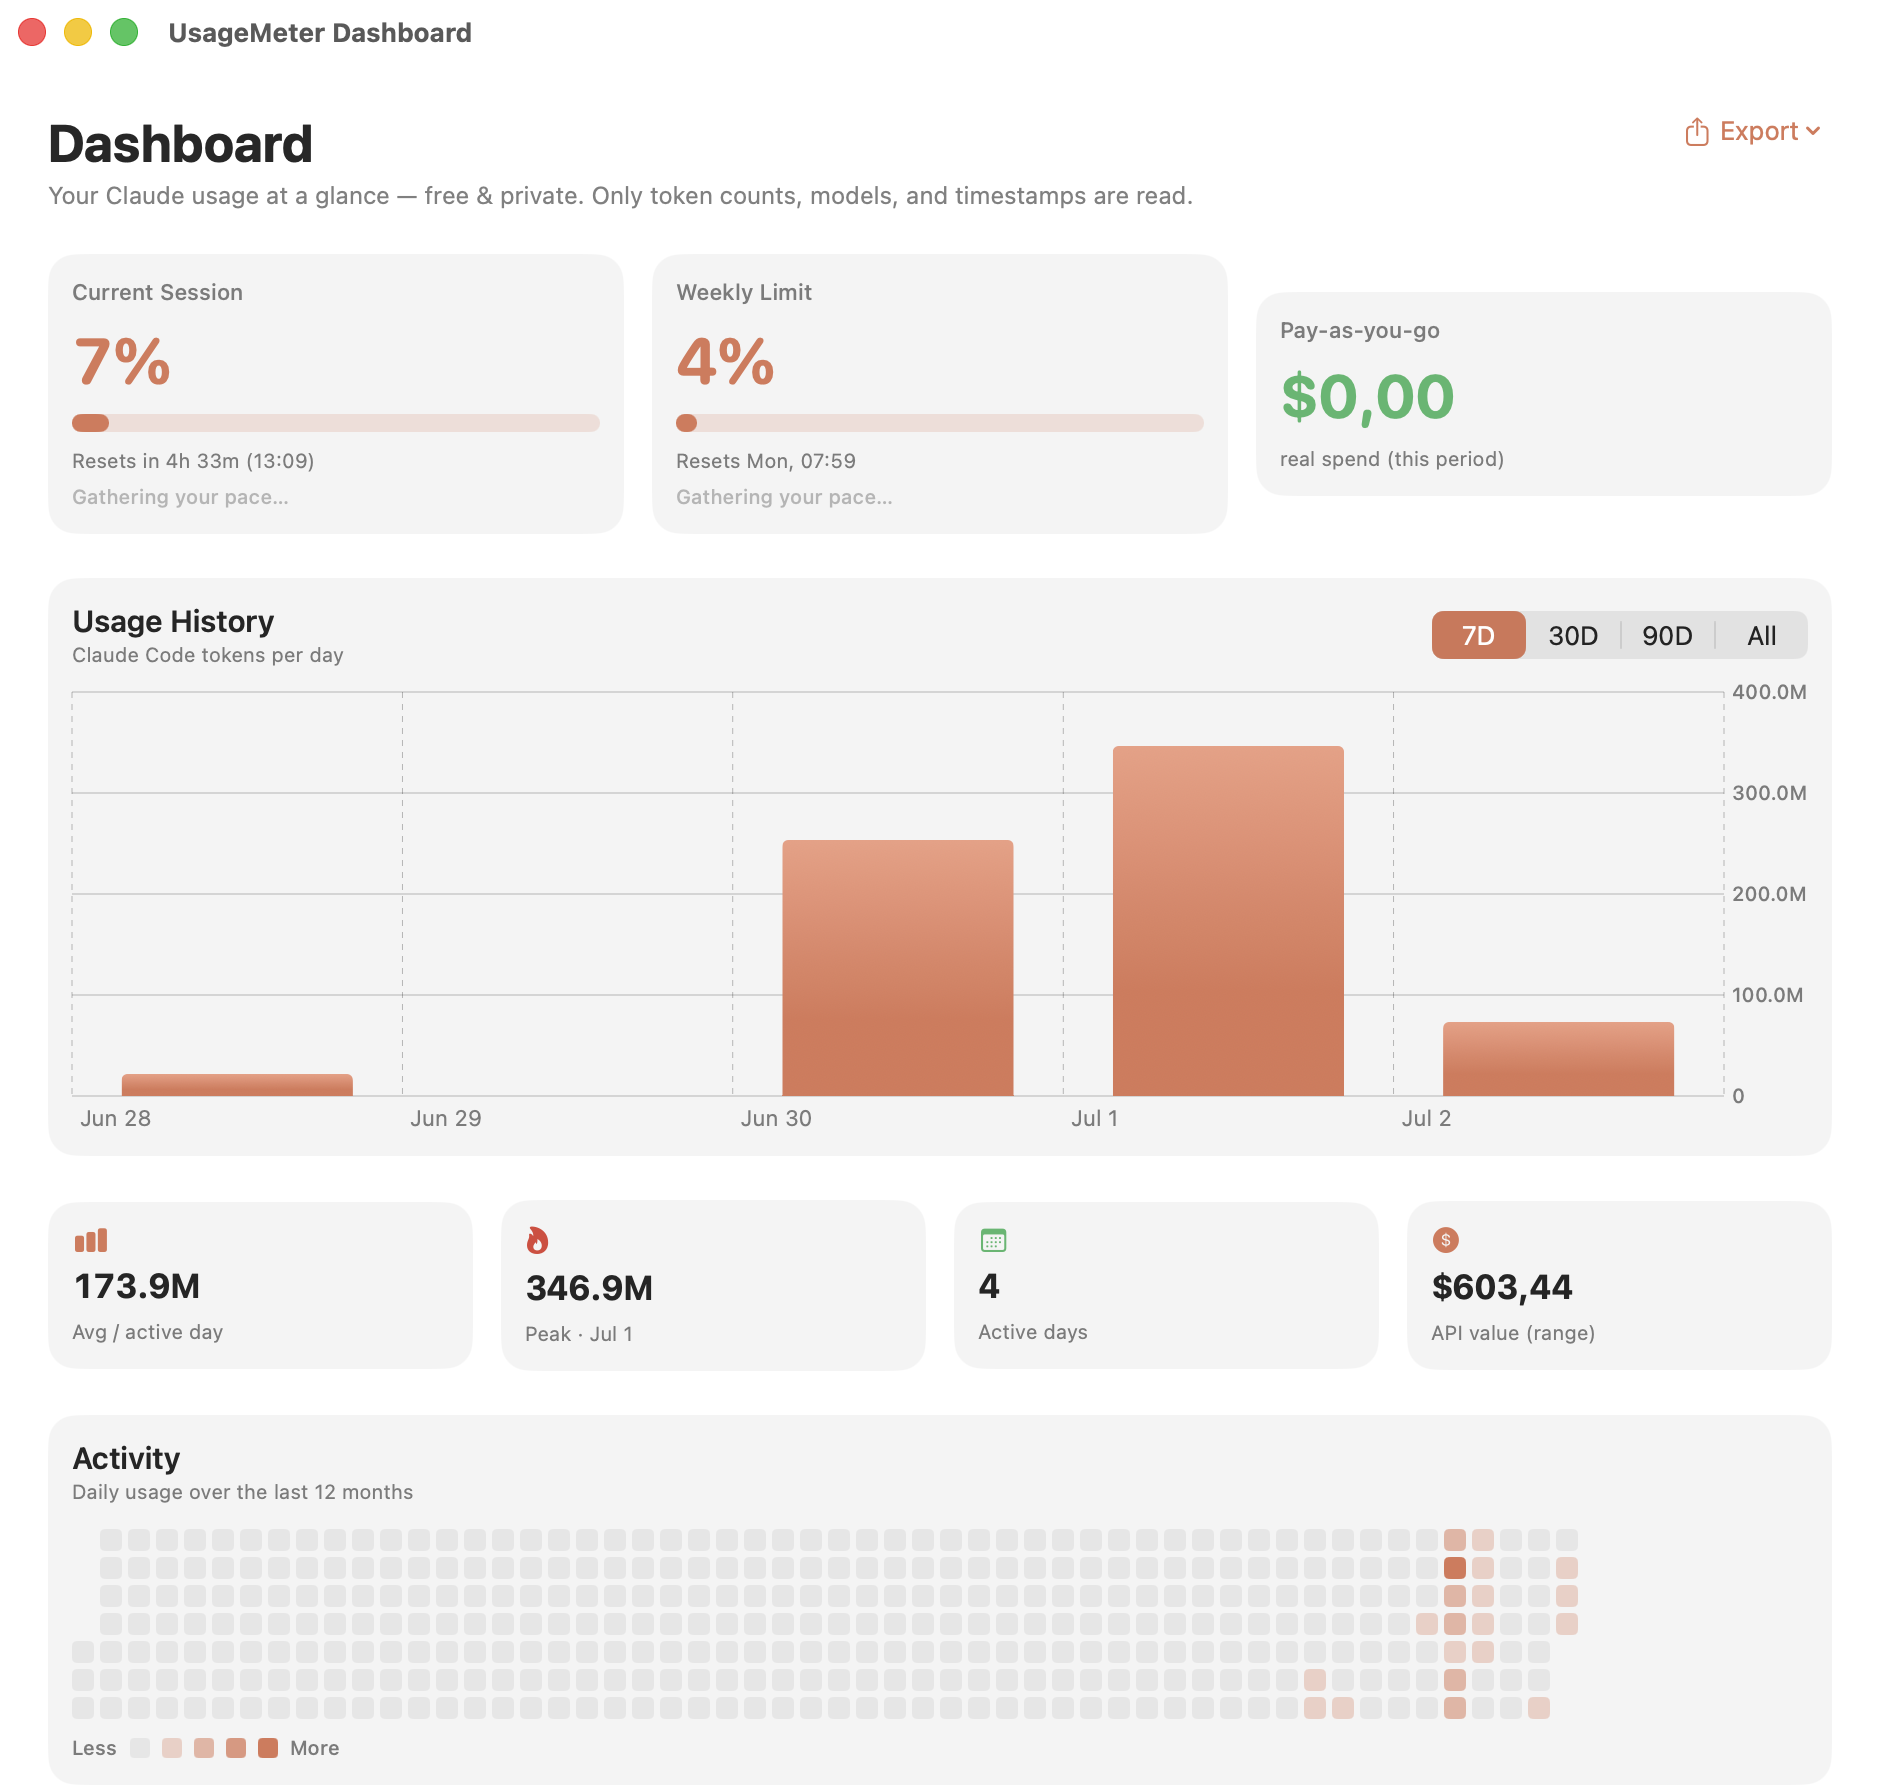
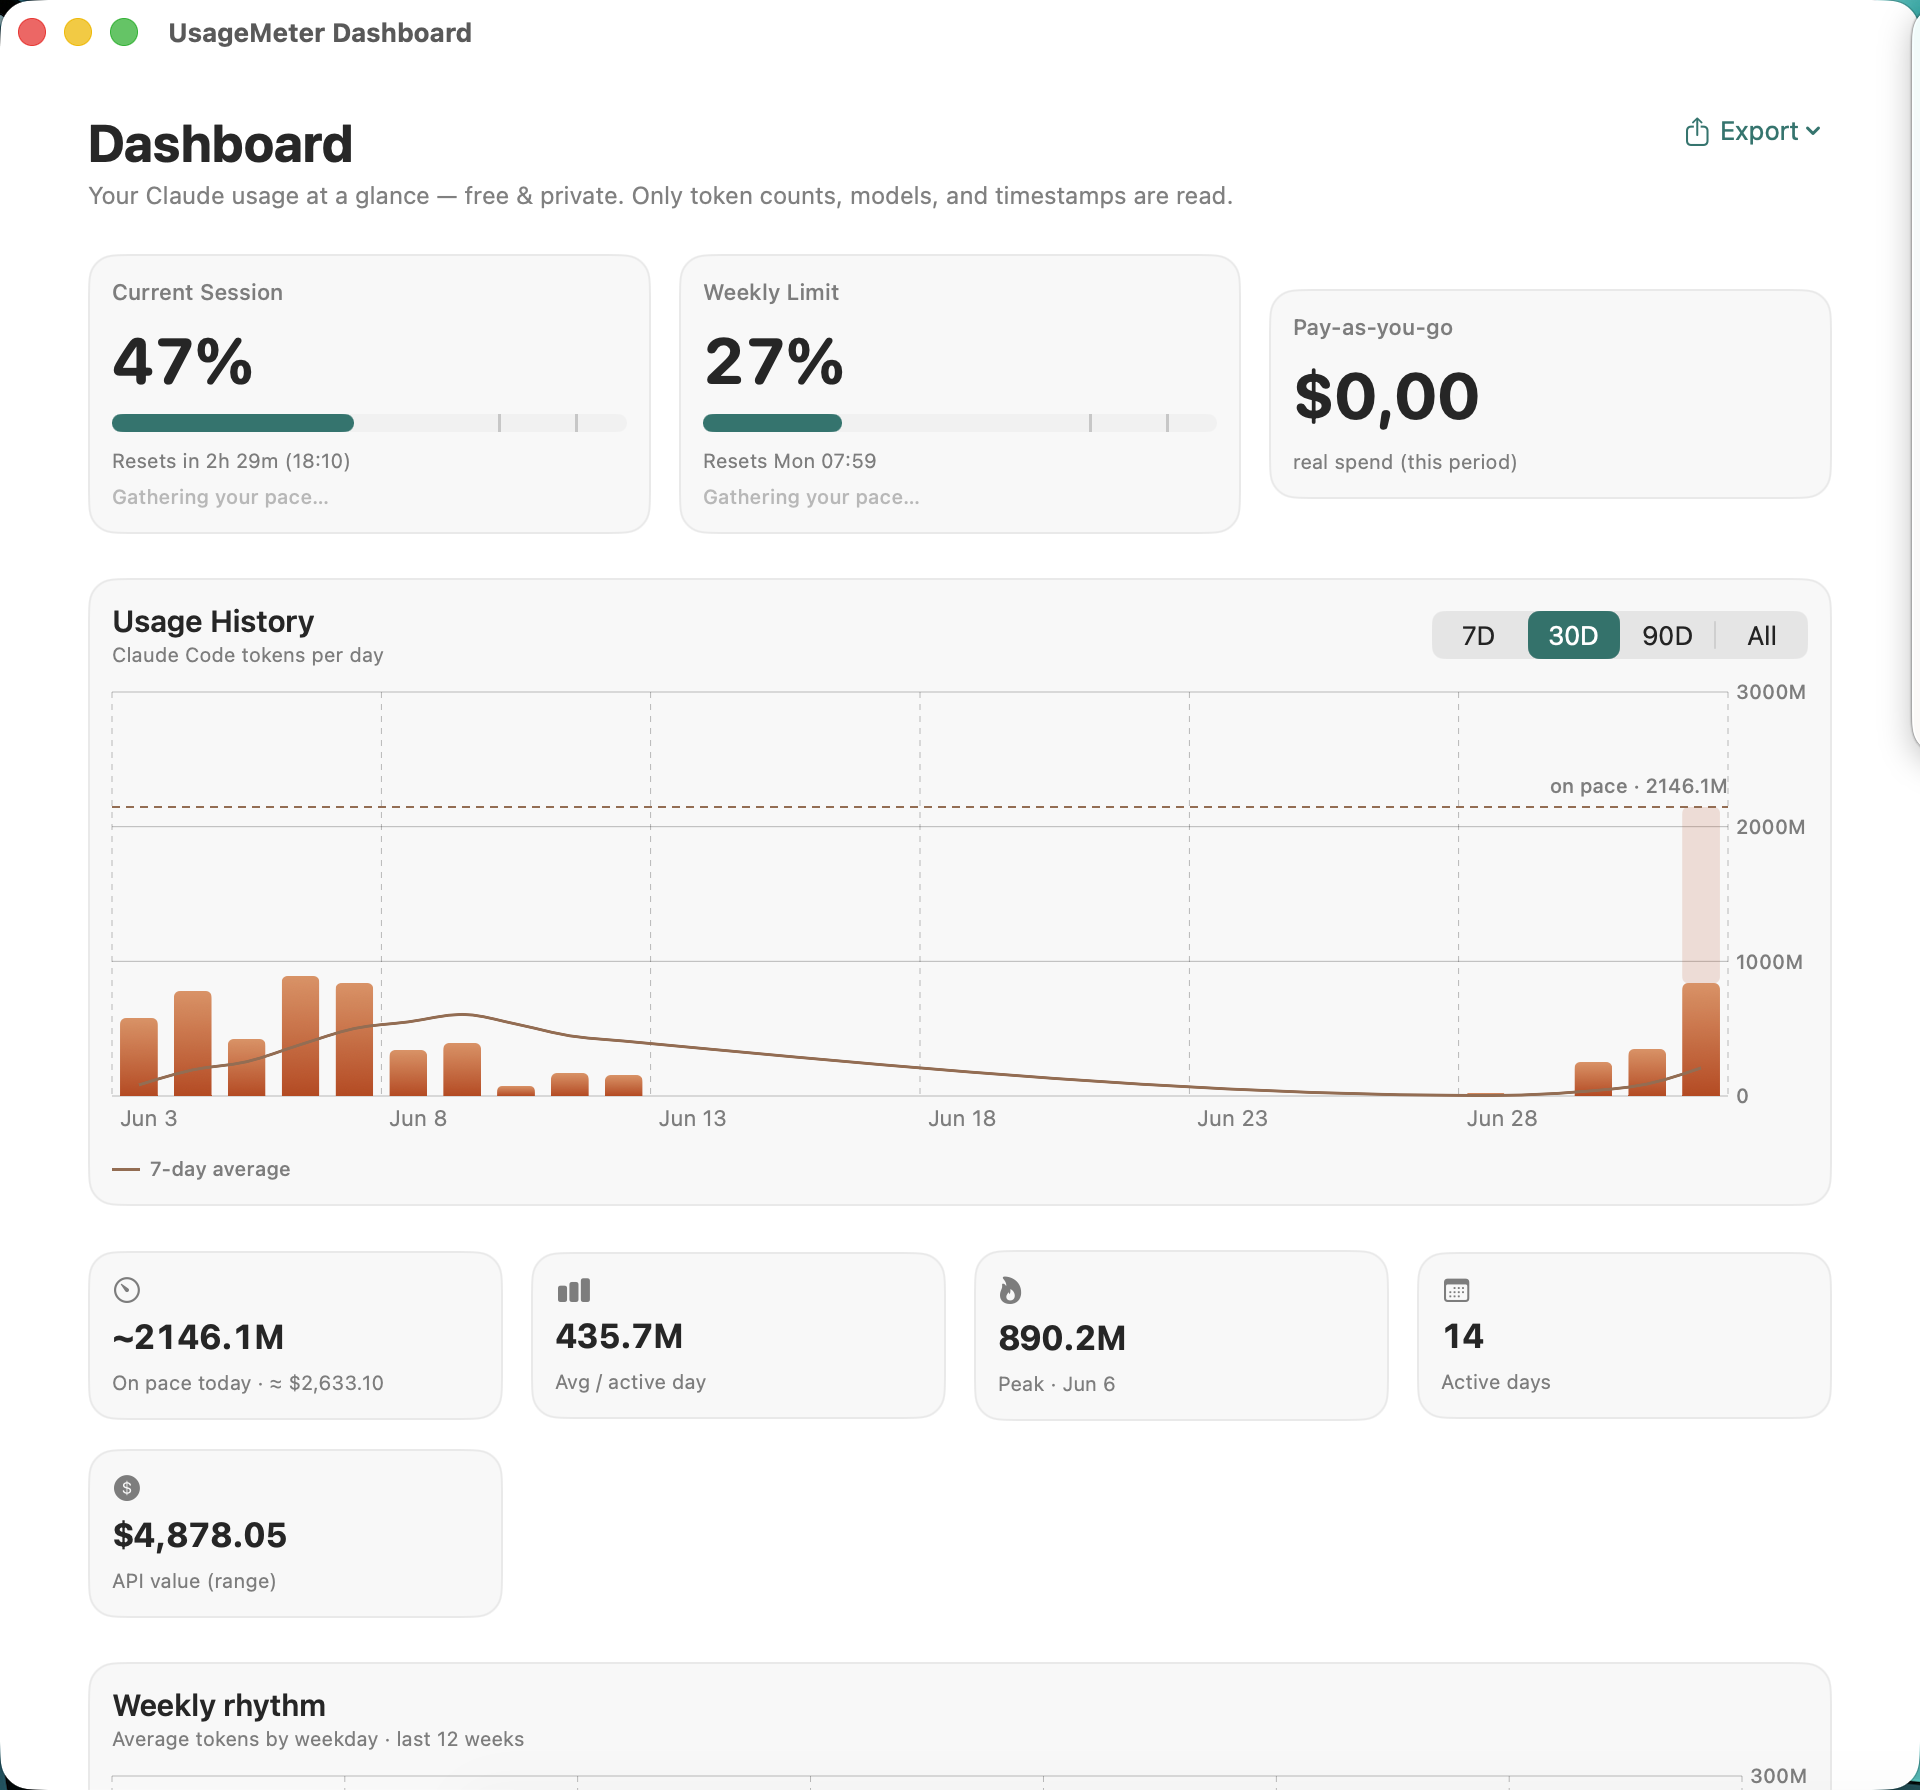
README: refresh screenshots to the Kiln design with real account data + forecasts

diff --git a/README.md b/README.md
@@ -27,11 +27,11 @@ It tracks three independent things:
 ## Screenshots
 
 <p align="center">
-  <img src="docs/screenshots/dashboard.png" width="780" alt="UsageMeter dashboard — live session and weekly limits, usage-history chart, insights, and a 12-month activity heatmap">
+  <img src="docs/screenshots/dashboard.png" width="780" alt="UsageMeter dashboard — live session and weekly limits, usage-history chart with a day-end projection and 7-day trend line, forecast and insight cards, and a weekly-rhythm chart">
 </p>
 
 <p align="center">
-  <img src="docs/screenshots/popover.png" width="340" alt="UsageMeter menu-bar popover — live session and weekly %, today's Claude Code tokens and API value, and the current 5-hour block">
+  <img src="docs/screenshots/popover.png" width="340" alt="UsageMeter menu-bar popover in the Kiln design — session hero with a reset countdown, weekly limit, and today's Claude Code tokens and API value">
 </p>
 
 ---